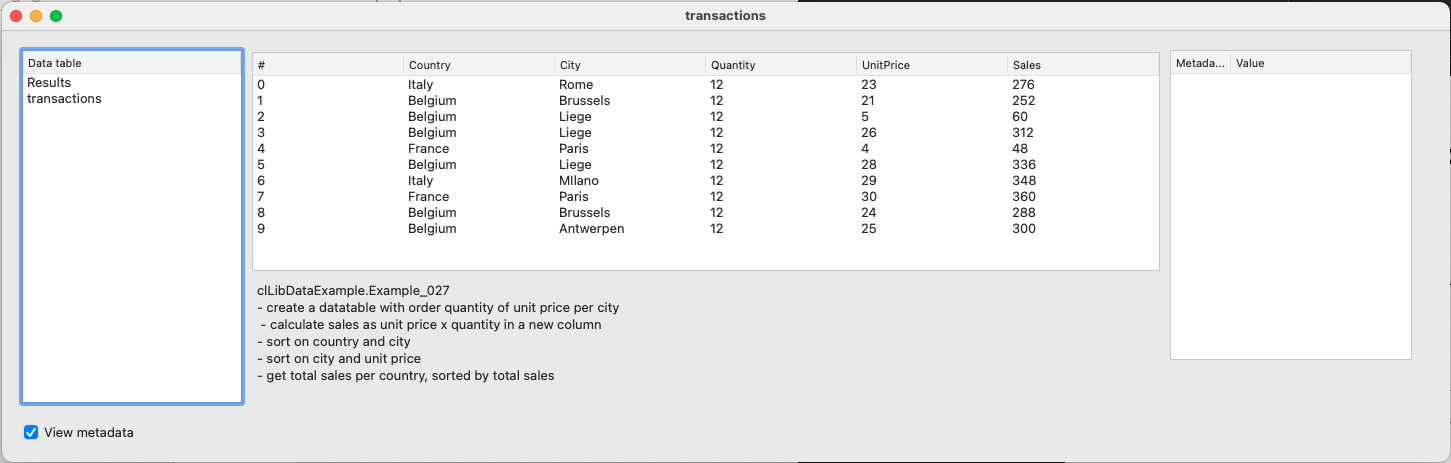
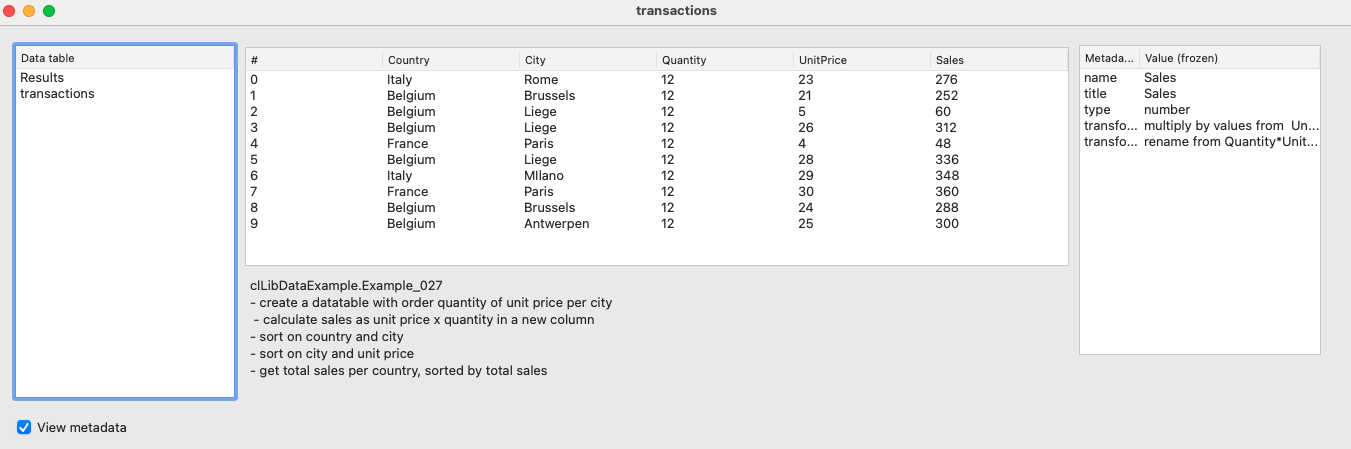
Update the "using examples" document

Changed region(s): [[0.0, 0.0, 1.0, 1.0], [0.8083, 0.7483, 0.9637, 0.7795], [0.4663, 0.3742, 0.4974, 0.4989]]

diff --git a/documentation/Using examples.md b/documentation/Using examples.md
@@ -15,11 +15,145 @@ Run the test project and select the “see examples” button at the bottom of t
 
 Scroll thru the list of examples and press “Run” when you find the example you want to run.
 
-
-
 ![Alt text](assets/ExamplePicker.png?raw=true "")
 
 
-
+When you run an example, the test program opens a table viewer populated with all the tables produced by the selected example. We have the following results for Example_027:
 
 ![Alt text](assets/Example_027.png?raw=true "")
+
+The list on the list contains the name of all the tables.
+
+The listbox in the middle shows the content of the selected table. Since we need strings, numbers are formatted either using the default format provided by the library or custom format defined by your application. The column headers contain the display name of the selected column. This is a DesktopListboxForTable, which can be used independently.
+
+The listbox on the left shows the metadata of the column under the mouse. At least, the metadata contains the name of the column, the title or display name of the column and the type of the column. Most transformations on a column will add information to the metadata. This is done automatically by the library.
+
+
+## Using the UI elements used in the examples
+
+The following assets defined in “Lib-data-ui-support” are used to build this window and can be used in an application:
+
+- The window wnd_table_viewer
+- The container control ccDataPool_Viewer used display the tables in a data pool.
+- The Listbox DesktopListForTable used to display the data in a table
+
+Each example method returns an array of clDataTable.
+
+### Simple example method
+
+```xojo
+
+log.start_exec(CurrentMethodName)
+
+var row As clDataRow
+
+var table As New clDataTable("mytable")
+
+// when this new row is added, new columns will be created with proper data type:
+
+row = New clDataRow
+row.SetCell("aaa",1234) // aaa will be a clIntegerDataSerie
+row.SetCell("bbb","abcd") // bbb will be a clStringDataSerie
+row.SetCell("ccc",-1234.457) // ccc will be a clNumberDataSerie
+table.AddRow(row)
+
+// when this new row is added, a new column will be added for ddd, but the type is forced to be clDataSerie
+row = New clDataRow(new Dictionary("aaa":1235, "bbb":"abce","ddd":23987.6))
+table.AddRow(row, clDataTable.AddRowMode.CreateNewColumnAsVariant)
+
+// when this new row is added, the value for eee is ignored, no new column are be added for eee, an error is logged, execution continues
+row = New clDataRow(new Dictionary("aaa":1234, "bbb":"abcd","ccc":4321.9, "ddd":678.9,"eee":123))
+table.AddRow(row,  clDataTable.AddRowMode.ErrorOnNewColumn)
+
+call table.AddColumn(Table.GetColumn("ccc").Clone("ccc with format"))
+
+clNumberDataSerie(table.GetColumn("ccc with format")).SetStringFormat("-###,##0.000", False) 
+
+log.end_exec(CurrentMethodName)
+
+//
+// Send the table to the viewer
+//
+return array(table)
+
+```
+
+### How its results are moved to the table viewer
+
+The method calling the example method, retrieves the table and pass their reference to the wnd_table_viewer:
+
+```xojo
+
+// item is the example method to be called
+var tables() as TableColumnReaderInterface = clLibDataExample.RunExample(nil, item)
+
+var wnd as new wnd_table_viewer
+
+wnd.ResetViewer
+
+for each table as TableColumnReaderInterface in tables
+  wnd.AddTable(table)
+  
+next
+
+var description() as string = clLibDataExample.GetDescription(item)
+
+wnd.Show
+wnd.ShowComments(description)
+
+```
+
+### Using in your code
+
+If you plan to reuse the code, do as follow:
+
+```xojo
+
+var tables() as TableColumnReaderInterface = clLibDataExample.RunExample(nil, item)
+
+// Create an instance of the window
+var wnd as new wnd_table_viewer
+
+wnd.ResetViewer
+
+// Add your table (or any other TableColumnReaderInterface)
+
+wnd.AddTable(table1)
+wnd.AddTable(table2)
+  …
+wnd.AddTable(tablen)
+
+// create a string array where you can put any relevant info
+var description() as string 
+
+// Show the window
+wnd.Show
+wnd.ShowComments(description)
+
+```
+### Using a data pool
+
+If you have all your tables in a data pool, you can call
+
+```xojo
+Var  myDataPool as new clDataPool()
+
+… do something
+
+
+var wnd as new wnd_table_viewer
+
+wnd.ResetViewer
+wnd.AddTablesFromPool(myDataPool)
+wnd.Show
+
+```
+
+
+
+### What is a TableColumnReaderInterface ?
+
+It is an interface implemented by clDataTable but also some date readers showing the data as data columns. If a data reader implements the TableColumnReaderInterface, it can be added to the ‘tables’ shown in the viewer without the need to explicitly load the data in actual data table. 
+
+
+
